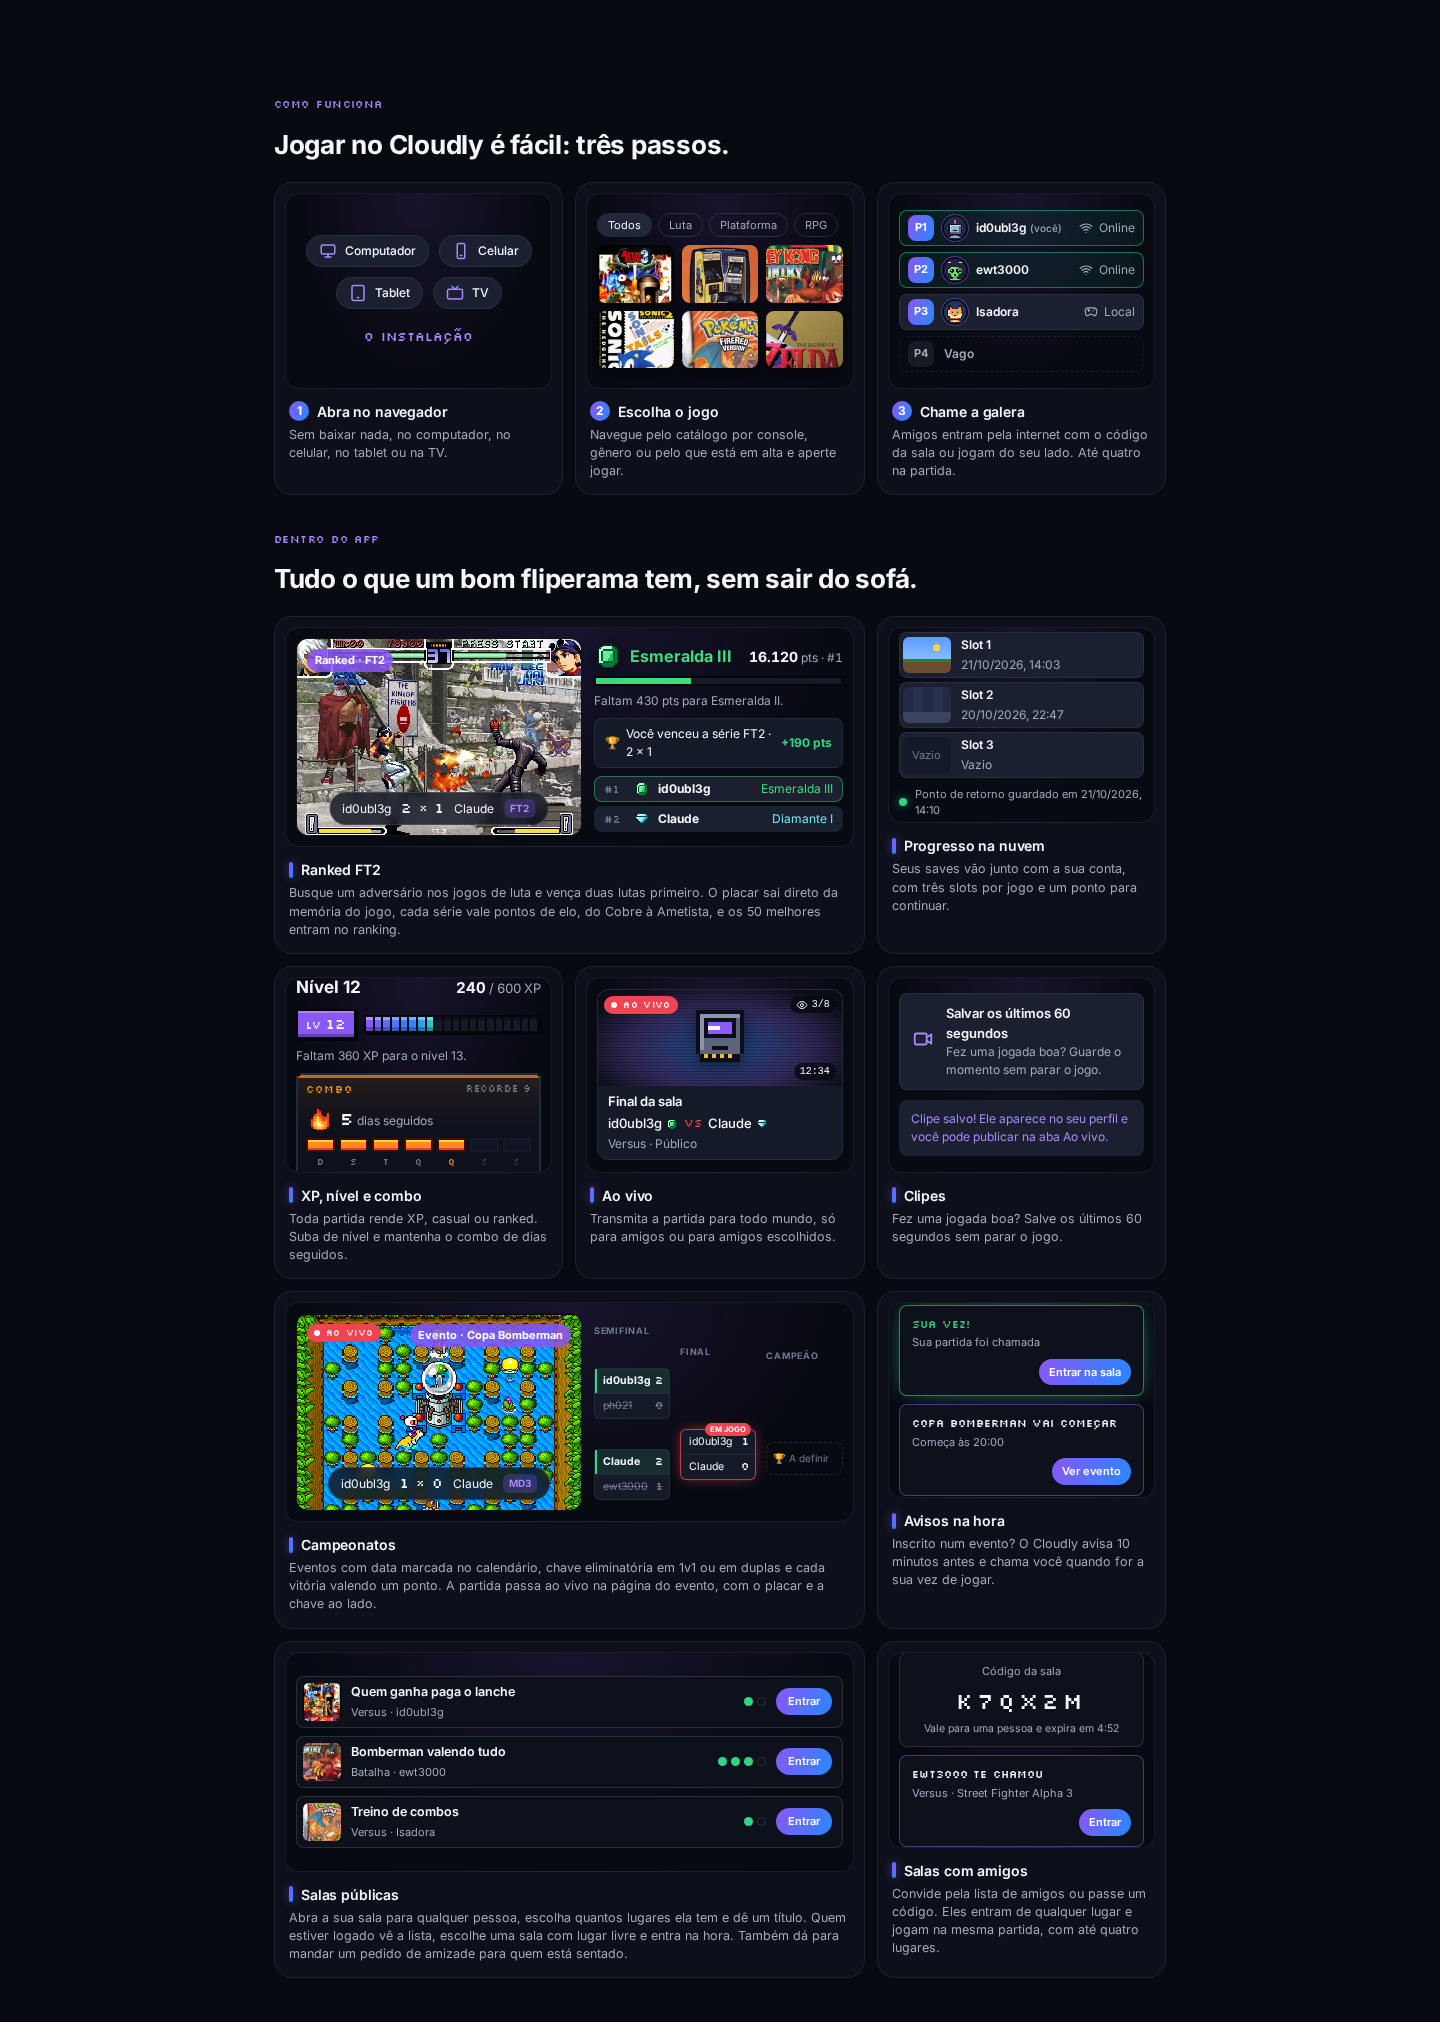
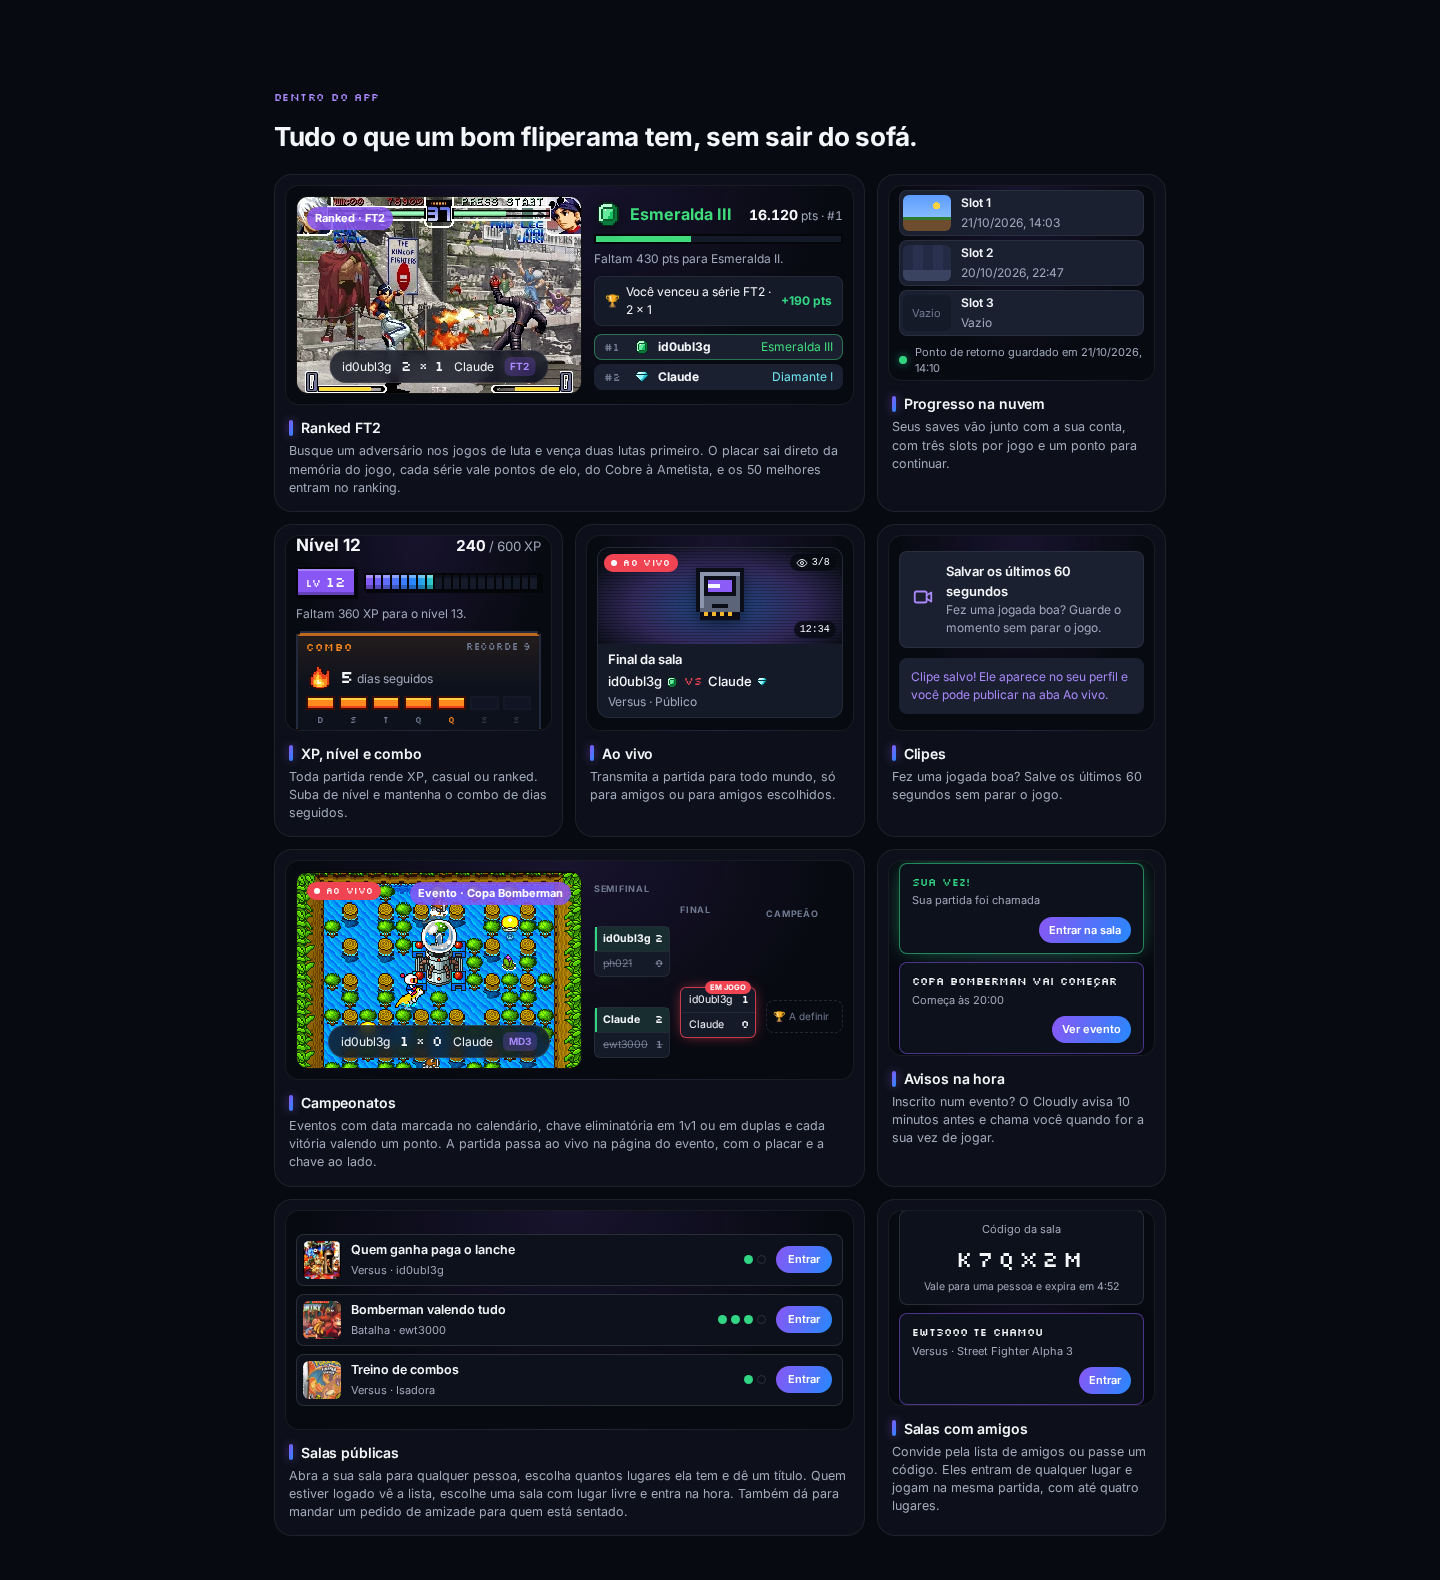
docs: show the whole inside the app section in the features screenshot

Changed region(s): [[0.1875, 0.031, 0.8125, 0.9614]]

diff --git a/README.md b/README.md
@@ -49,7 +49,7 @@ Cloudly Game Landing is a static page, with plain HTML, CSS and JavaScript and n
 <!-- markdownlint-disable MD033 -->
 
 <p align="center">
-  <img src=".github/features.png" alt="Como funciona section with the three steps, open in the browser, pick a game and call friends, above the ranked, save slots, XP, live, clip, tournament, event alert, public rooms and rooms with friends cards" width="100%">
+  <img src=".github/features.png" alt="Dentro do app section with the ranked, save slots, XP, live, clip, tournament, event alert, public rooms and rooms with friends cards" width="100%">
 </p>
 
 <!-- markdownlint-enable MD033 -->
